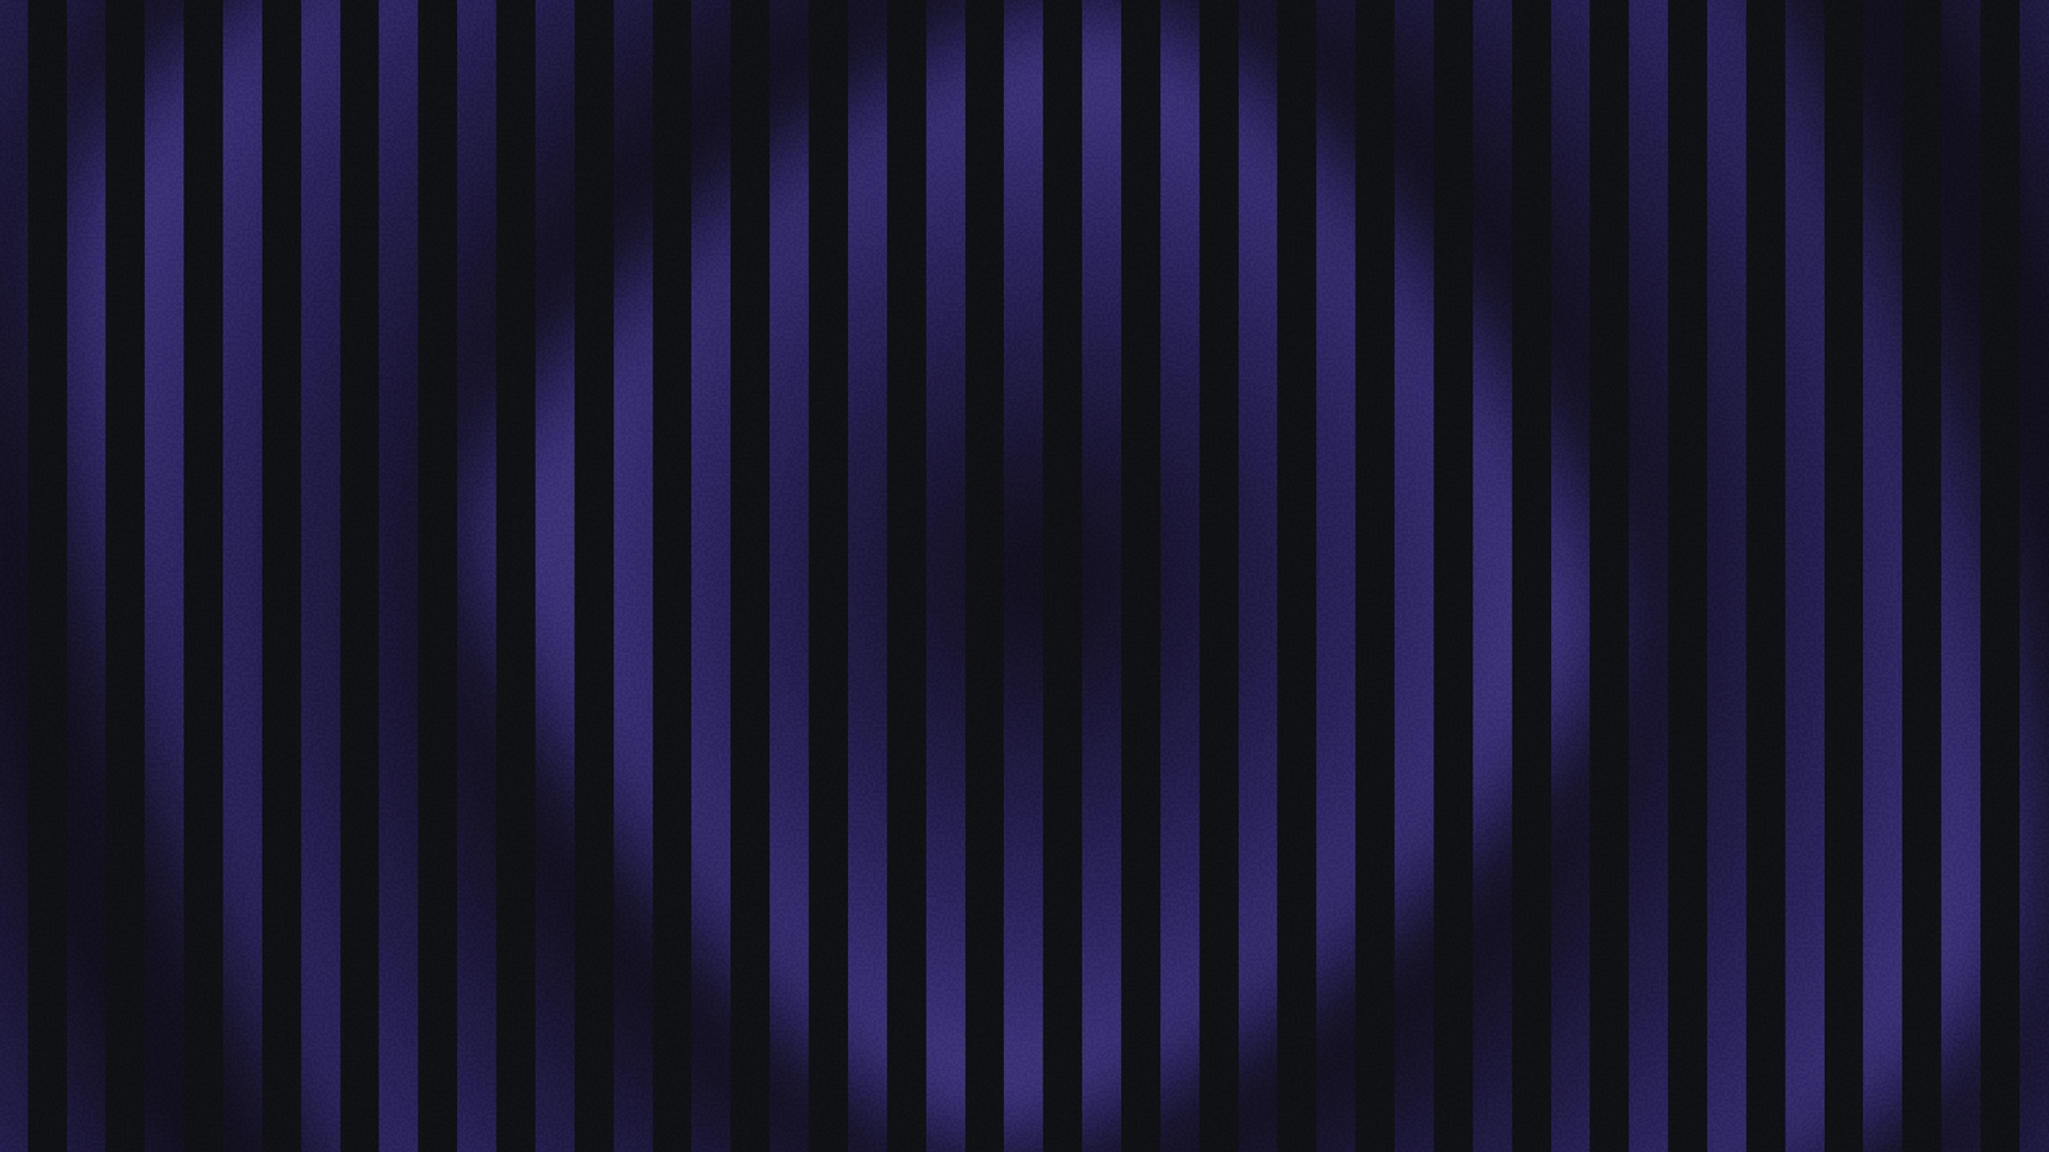
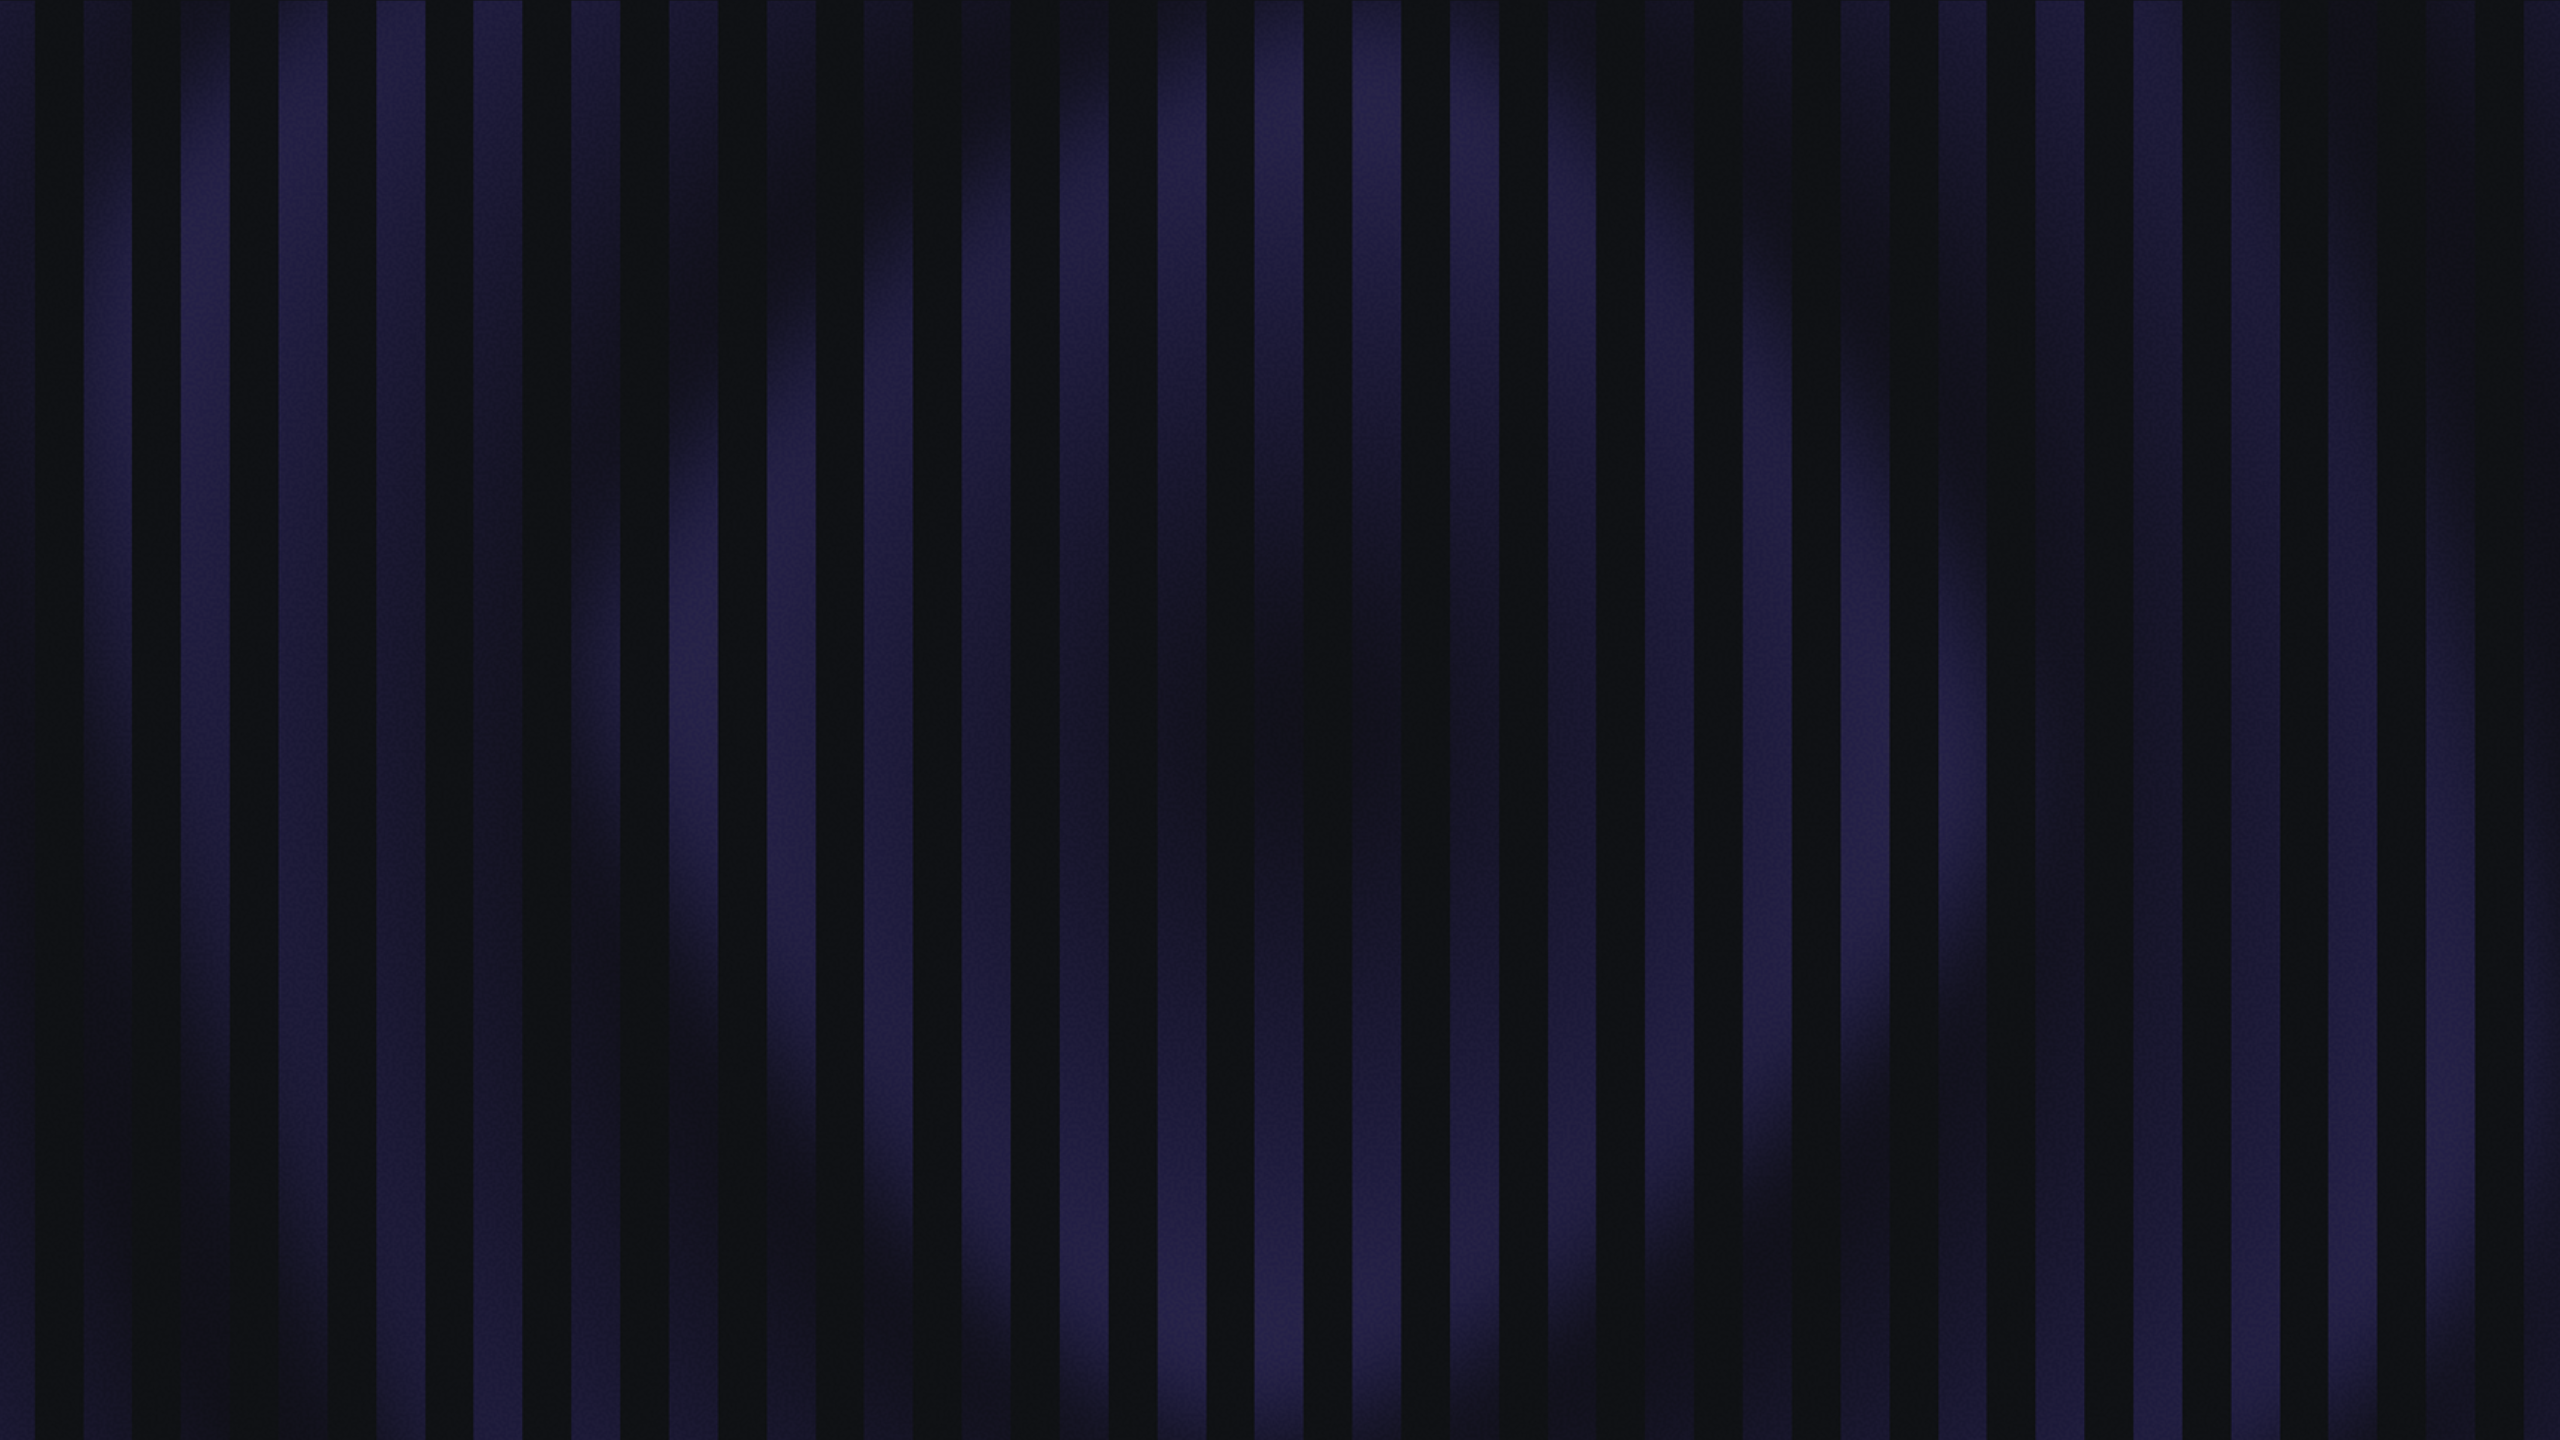
Add mobile background + responsive background logic

diff --git a/src/App.css b/src/App.css
@@ -35,27 +35,16 @@
 
 /* GLOBAL BACKGROUND */
 
-html,
-body,
-#root {
-  height: 100%;
-  margin: 0;
+html {
+  background: url("/chog-bg.png") center top / cover no-repeat fixed;
 }
 
-html {
-  /* NEW: global radial gradient instead of PNG */
-  background: radial-gradient(
-    circle at center,
-    #3c1a7a 0%,
-    #251046 45%,
-    #0d031c 75%,
-    #000000 100%
-  );
-  background-attachment: scroll;
-  background-size: cover;
-  background-position: center;
-  scroll-behavior: smooth;
+@media (max-width: 900px) {
+  html {
+    background: url("/chog-bg-mobile.png") center top / cover no-repeat fixed;
+  }
 }
+
 
 body {
   display: flex;
